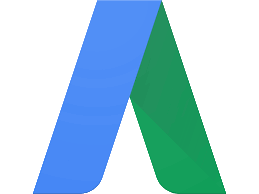
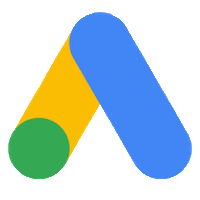
Add new adwords image

diff --git a/index.html b/index.html
@@ -185,11 +185,11 @@
                 <br>
                 <div style="font-size:28px;" class="font-weight-light mb-0"> Photoshop</div>
               </div>
-              <!-- <div style="width:20%;display:flex;flex-direction:column;align-items:center;margin:20px 15px;">
+              <div style="width:20%;display:flex;flex-direction:column;align-items:center;margin:20px 15px;">
                 <img style="height:100px;" src="./img/skills/adwords.png" alt="">
                 <br>
                 <div style="font-size:28px;" class="font-weight-light mb-0"> Google Adwords</div>
-              </div> -->
+              </div>
               <div style="width:20%;display:flex;flex-direction:column;align-items:center;margin:20px 15px;">
                 <img style="height:100px;" src="./img/skills/analytics.png" alt="">
                 <br>
